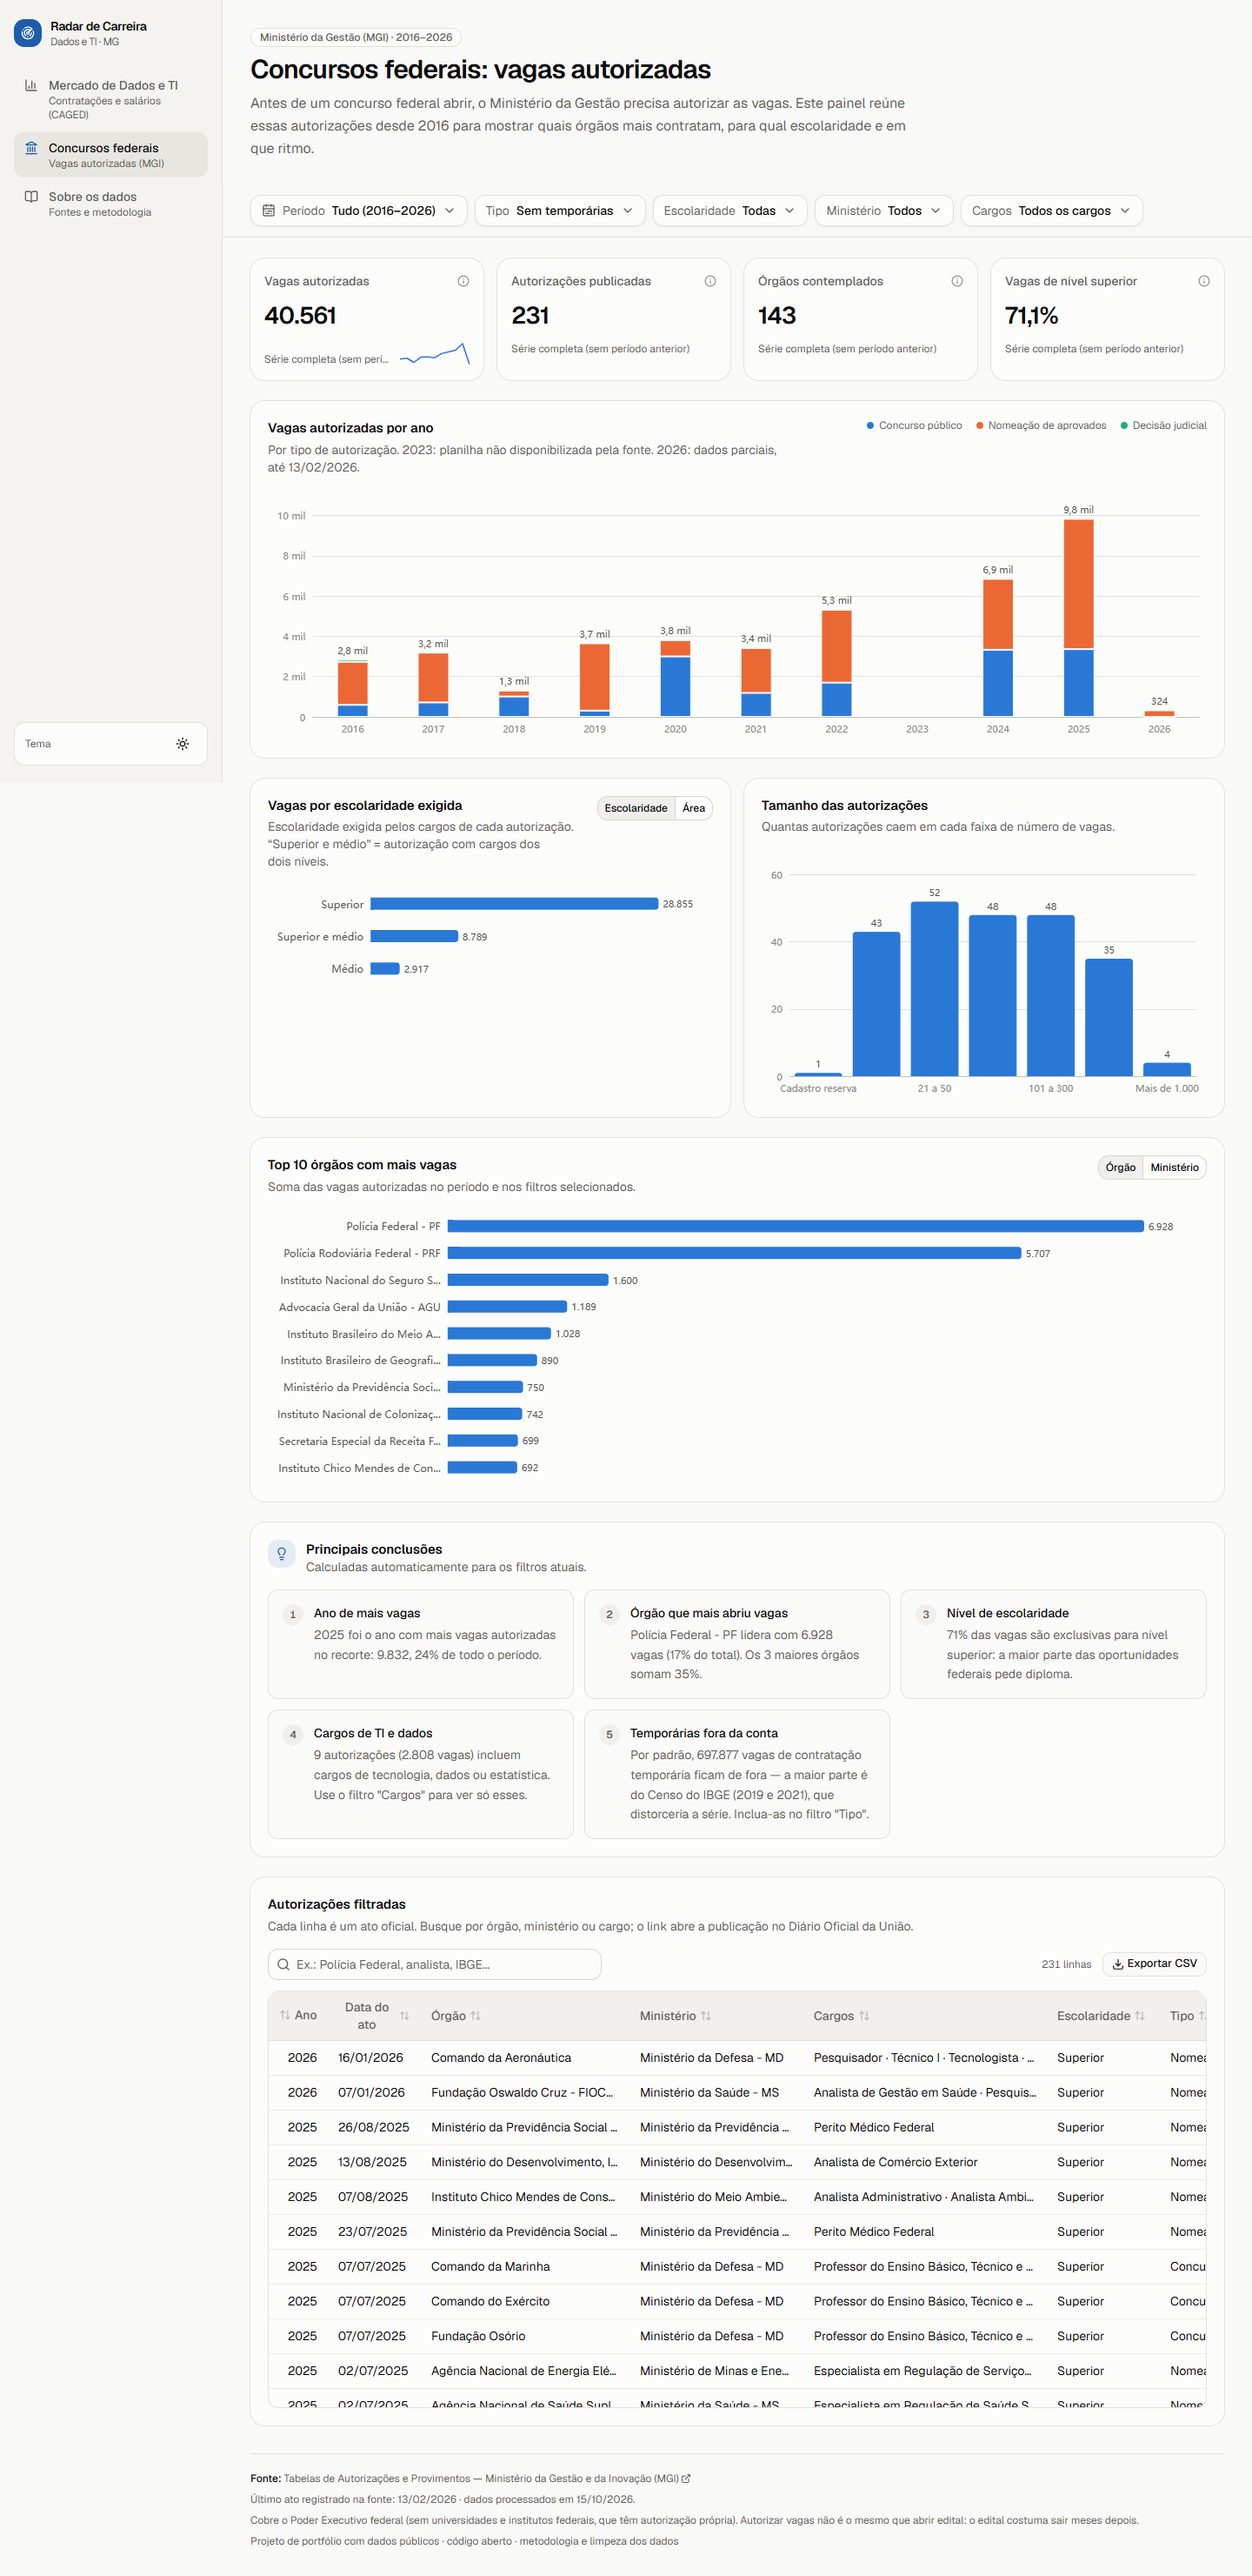
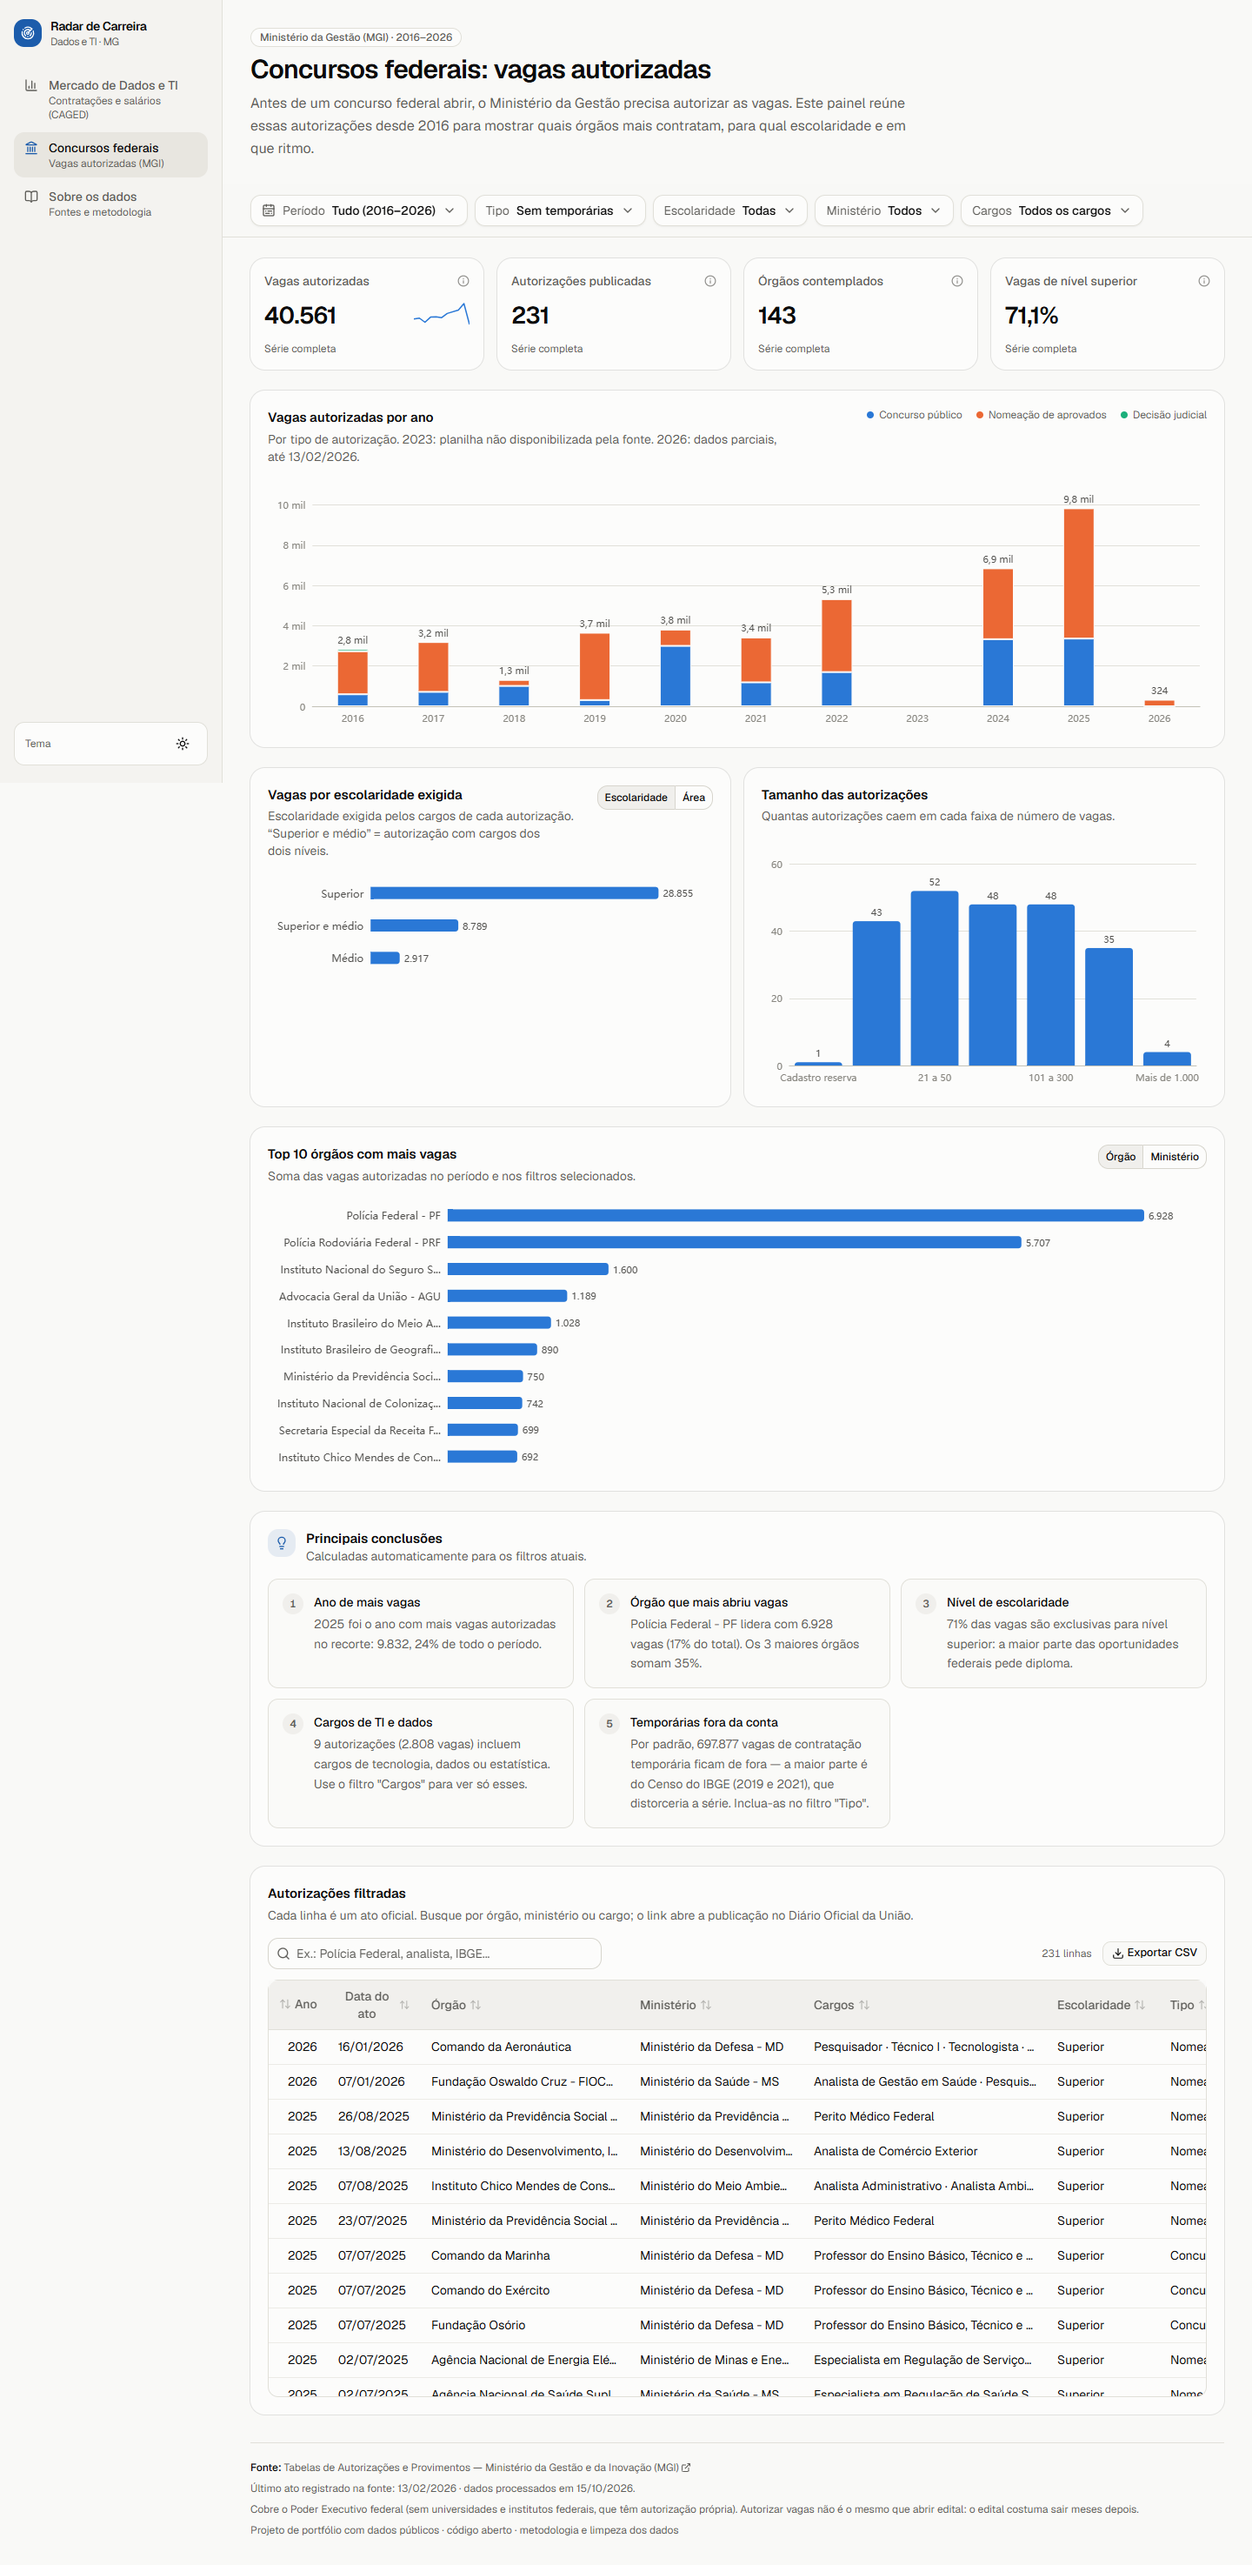
KPIs: minilinha ao lado do número e link do painel no README
A comparação com o período anterior deixa de ser cortada nos cards em
telas de 1440px. README ganha o link do painel publicado na Vercel e os
prints foram atualizados.

diff --git a/components/dashboard/kpi-card.tsx b/components/dashboard/kpi-card.tsx
@@ -36,7 +36,10 @@ export function KpiCard({ titulo, valor, variacao, direcao, sentido = "maior-mel
           <TooltipContent className="max-w-64 text-pretty">{definicao}</TooltipContent>
         </Tooltip>
       </div>
-      <p className="text-2xl font-semibold tracking-tight sm:text-[1.7rem]">{valor}</p>
+      <div className="flex items-end justify-between gap-3">
+        <p className="text-2xl font-semibold tracking-tight sm:text-[1.7rem]">{valor}</p>
+        {tendencia && <Sparkline valores={tendencia} className="mb-1.5 h-7 w-16 shrink-0" />}
+      </div>
       <div className="flex items-end justify-between gap-3">
         <div className="flex min-w-0 flex-col gap-1">
           {variacao ? (
@@ -55,7 +58,6 @@ export function KpiCard({ titulo, valor, variacao, direcao, sentido = "maior-mel
           ) : null}
           <span className="truncate text-xs text-muted-foreground">{comparacao}</span>
         </div>
-        {tendencia && <Sparkline valores={tendencia} className="h-7 w-20 shrink-0" />}
       </div>
     </Card>
   )

diff --git a/README.md b/README.md
@@ -1,5 +1,7 @@
 # Radar de Carreira em Dados — MG
 
+**🔗 Acesse: [radar-carreira-dados.vercel.app](https://radar-carreira-dados.vercel.app)**
+
 Painel interativo com **dados públicos oficiais** sobre o mercado de trabalho em **Dados e Tecnologia em Minas Gerais** (Novo CAGED) e sobre as **vagas autorizadas em concursos federais** (Ministério da Gestão).
 
 ![Painel de mercado de Dados e TI — modo claro](docs/prints/mercado-claro.png)
